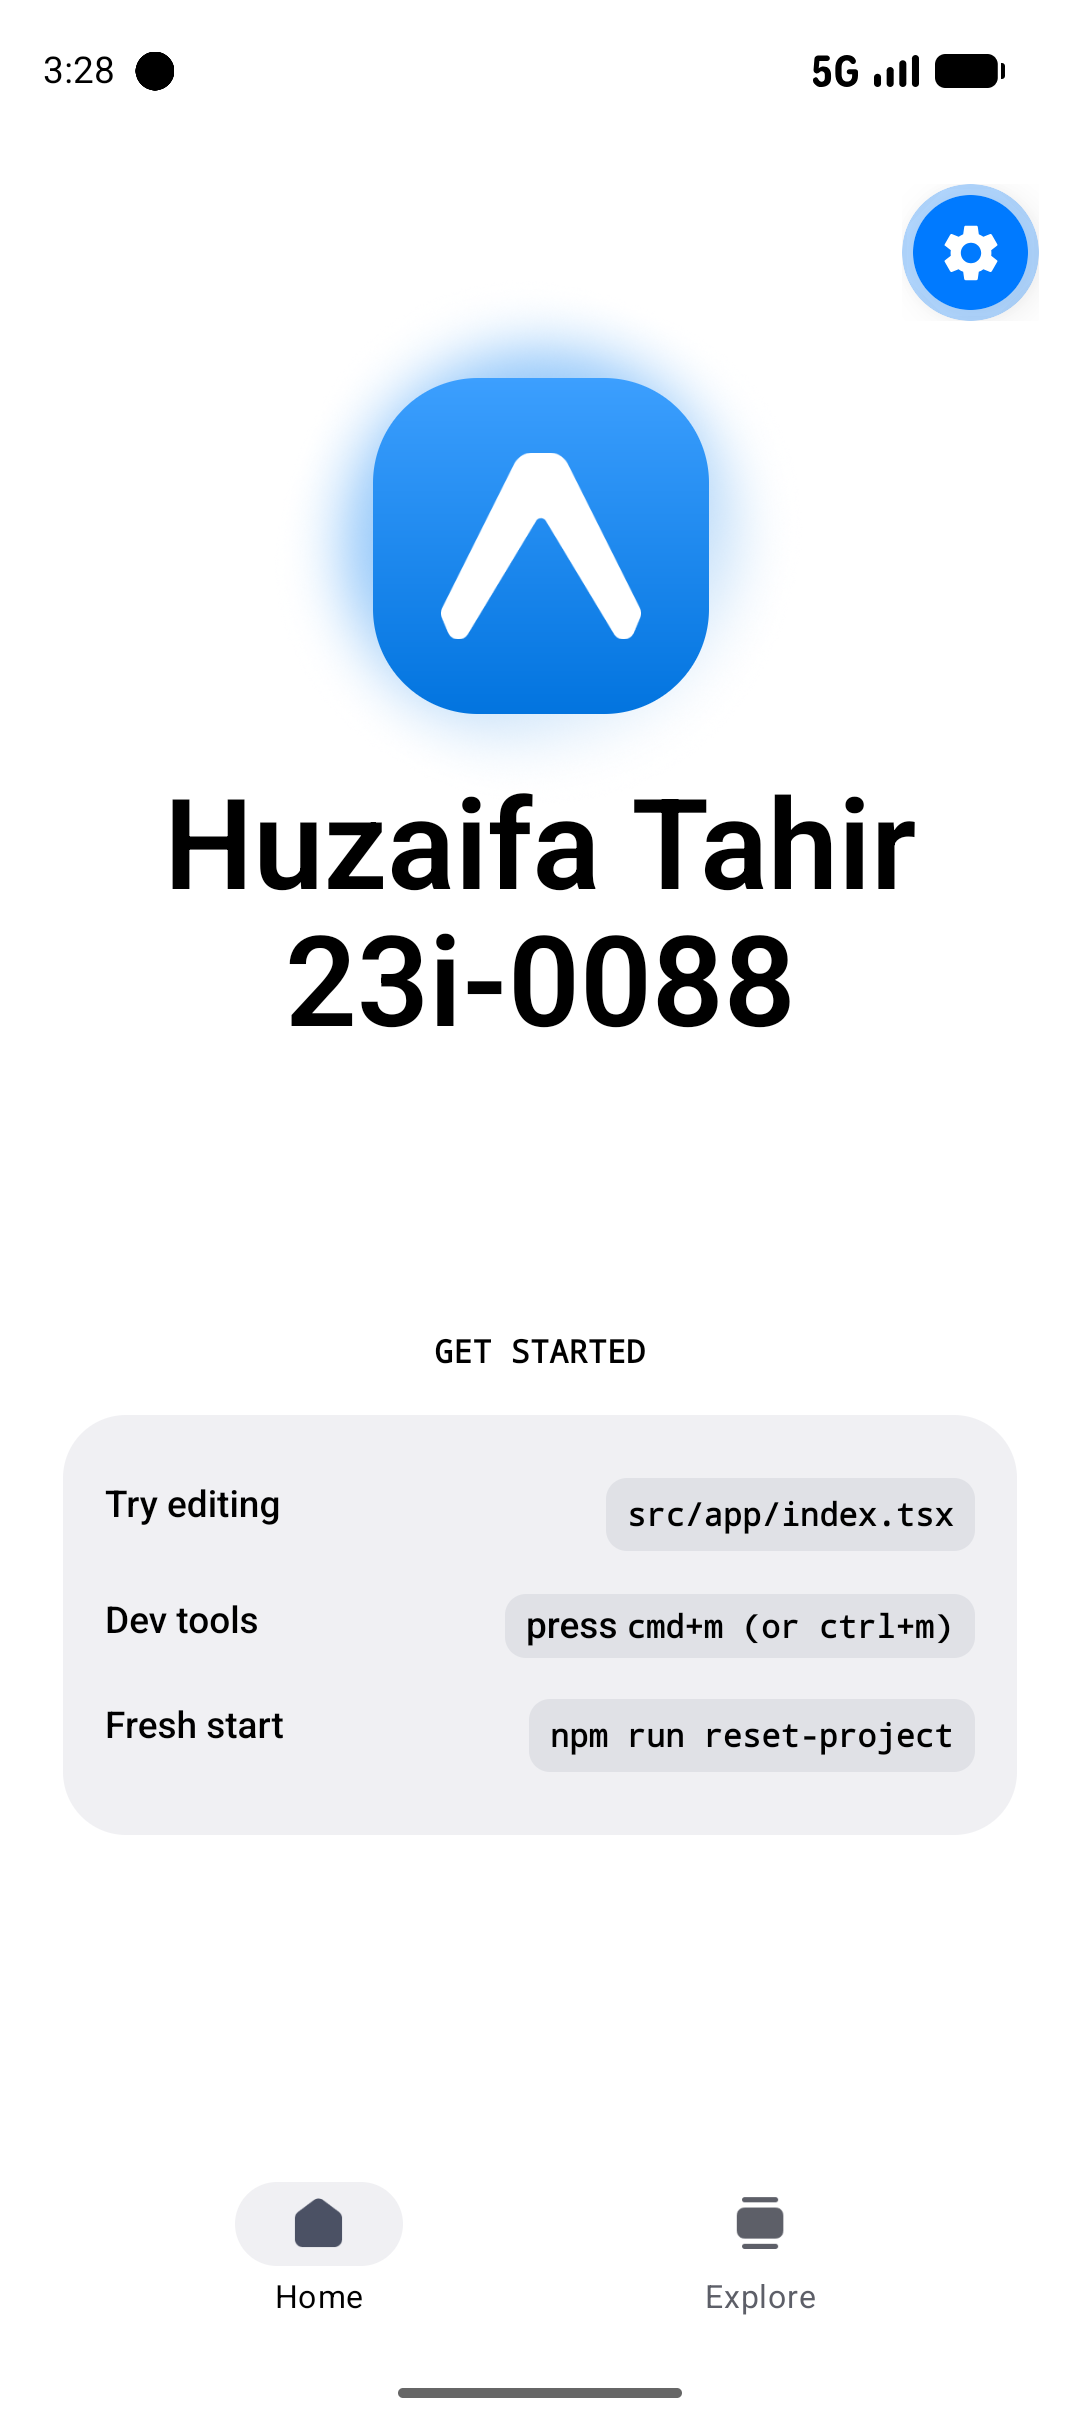
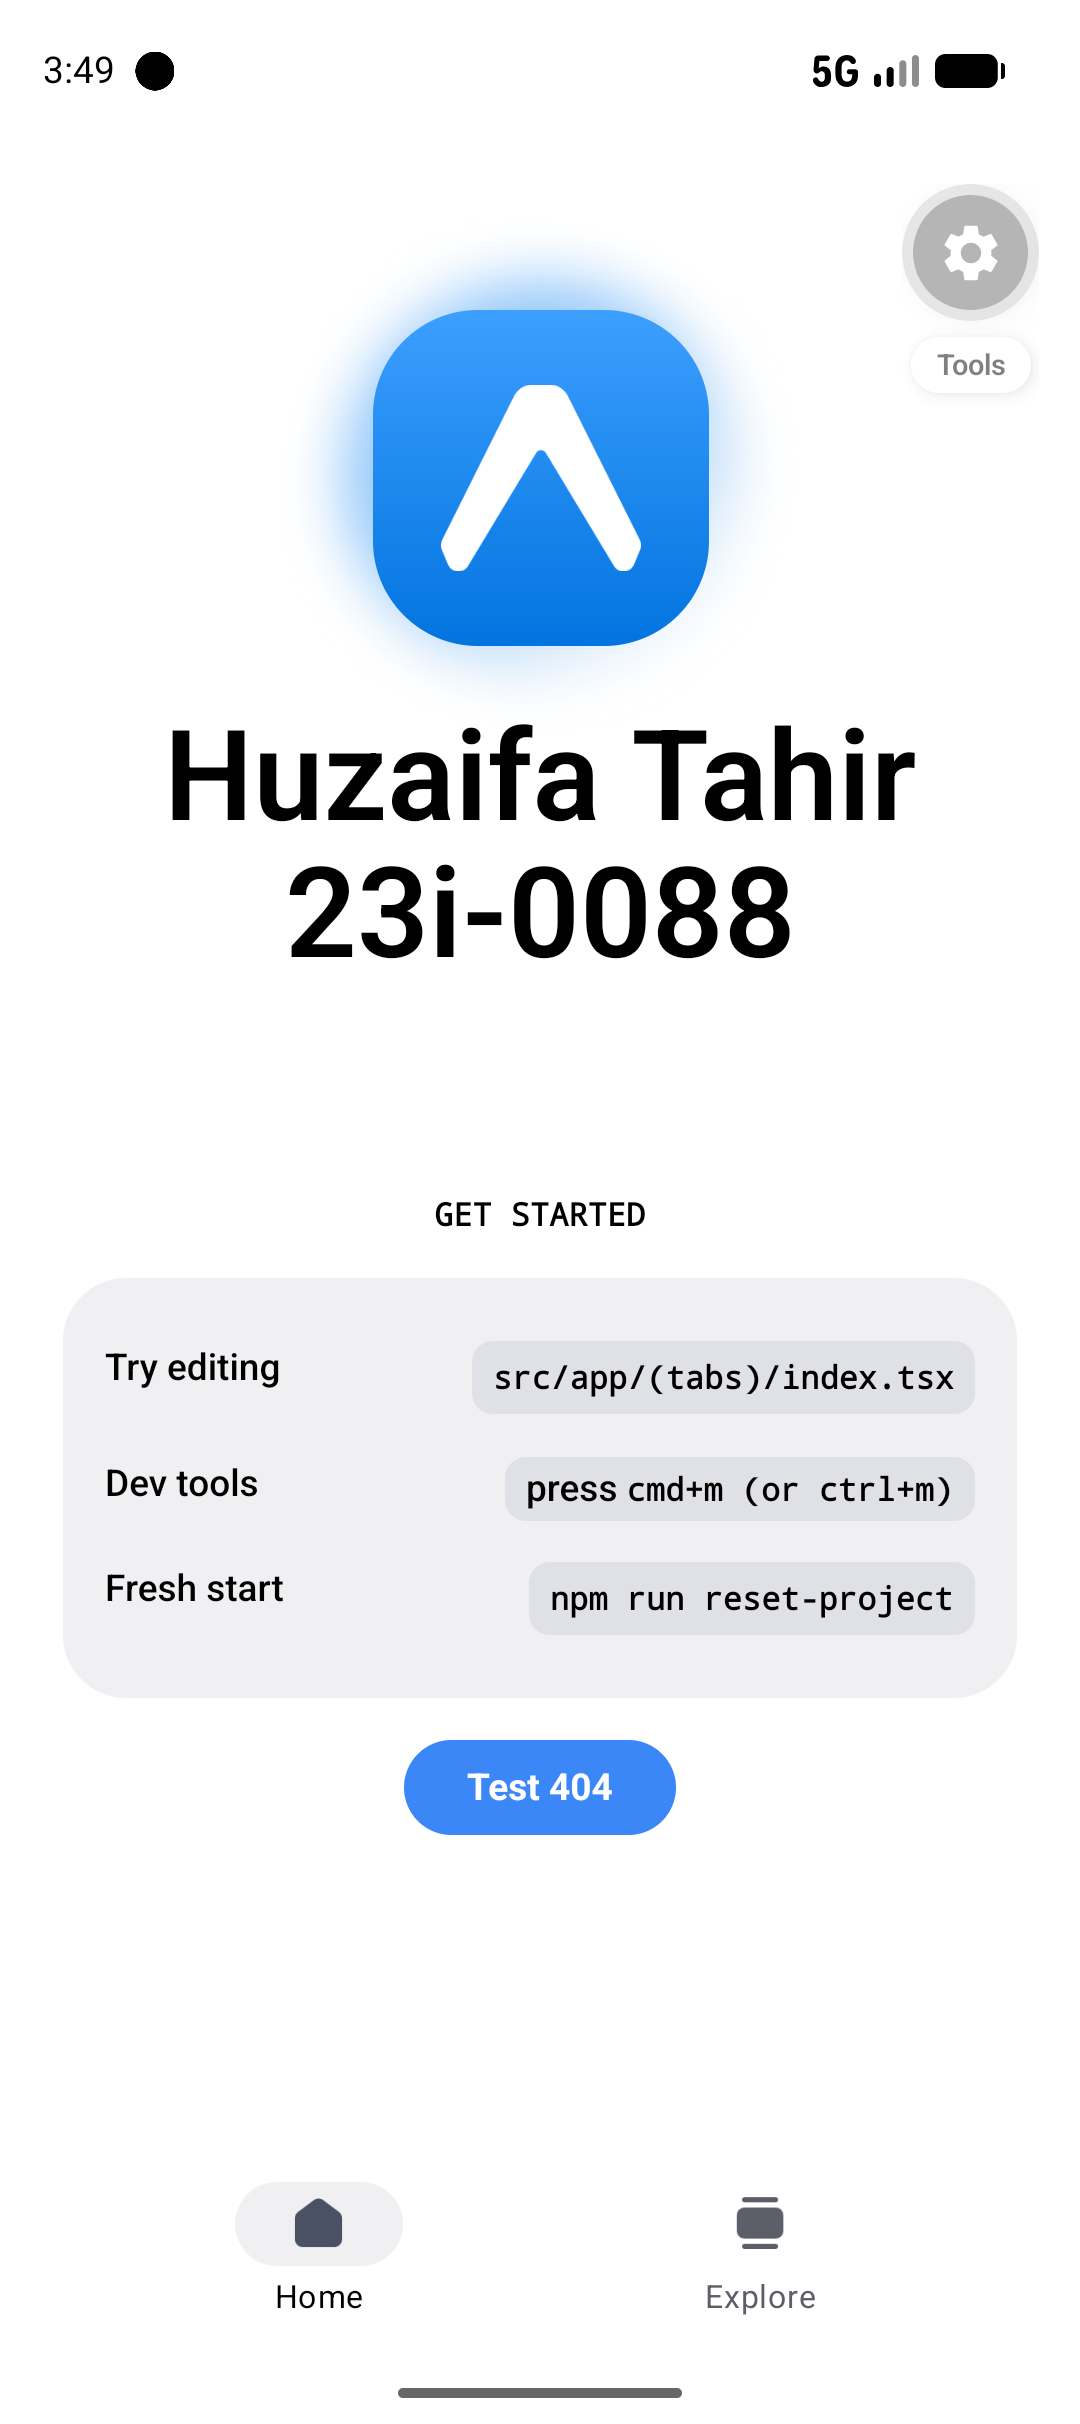
Add Test 404 button and make not-found screen reachable on mobile
NativeTabs only renders tab triggers, so +not-found never showed on
Android/iOS. Move tab screens into a (tabs) group under a root Stack so
unmatched routes push the not-found screen above the tabs.

diff --git a/src/app/(tabs)/index.tsx b/src/app/(tabs)/index.tsx
@@ -1,5 +1,6 @@
 import * as Device from 'expo-device';
-import { Platform, StyleSheet } from 'react-native';
+import { Href, Link } from 'expo-router';
+import { Platform, Pressable, StyleSheet } from 'react-native';
 import { SafeAreaView } from 'react-native-safe-area-context';
 
 import { AnimatedIcon } from '@/components/animated-icon';
@@ -46,7 +47,7 @@ export default function HomeScreen() {
         <ThemedView type="backgroundElement" style={styles.stepContainer}>
           <HintRow
             title="Try editing"
-            hint={<ThemedText type="code">src/app/index.tsx</ThemedText>}
+            hint={<ThemedText type="code">src/app/(tabs)/index.tsx</ThemedText>}
           />
           <HintRow title="Dev tools" hint={getDevMenuHint()} />
           <HintRow
@@ -54,6 +55,14 @@ export default function HomeScreen() {
             hint={<ThemedText type="code">npm run reset-project</ThemedText>}
           />
         </ThemedView>
+
+        <Link href={'/does-not-exist' as Href} asChild>
+          <Pressable style={styles.testButton}>
+            <ThemedText type="smallBold" style={styles.testButtonText}>
+              Test 404
+            </ThemedText>
+          </Pressable>
+        </Link>
 
         {Platform.OS === 'web' && <WebBadge />}
       </SafeAreaView>
@@ -94,5 +103,14 @@ const styles = StyleSheet.create({
     paddingHorizontal: Spacing.three,
     paddingVertical: Spacing.four,
     borderRadius: Spacing.four,
+  },
+  testButton: {
+    backgroundColor: '#3c87f7',
+    paddingHorizontal: Spacing.four,
+    paddingVertical: Spacing.two,
+    borderRadius: Spacing.four,
+  },
+  testButtonText: {
+    color: '#ffffff',
   },
 });

diff --git a/src/app/_layout.tsx b/src/app/_layout.tsx
@@ -1,18 +1,20 @@
-import { DarkTheme, DefaultTheme, ThemeProvider } from 'expo-router';
+import { DarkTheme, DefaultTheme, Stack, ThemeProvider } from 'expo-router';
 import * as SplashScreen from 'expo-splash-screen';
 import { useColorScheme } from 'react-native';
 
 import { AnimatedSplashOverlay } from '@/components/animated-icon';
-import AppTabs from '@/components/app-tabs';
 
 SplashScreen.preventAutoHideAsync();
 
-export default function TabLayout() {
+export default function RootLayout() {
   const colorScheme = useColorScheme();
   return (
     <ThemeProvider value={colorScheme === 'dark' ? DarkTheme : DefaultTheme}>
       <AnimatedSplashOverlay />
-      <AppTabs />
+      <Stack>
+        <Stack.Screen name="(tabs)" options={{ headerShown: false }} />
+        <Stack.Screen name="+not-found" options={{ title: 'Not found' }} />
+      </Stack>
     </ThemeProvider>
   );
 }

diff --git a/src/app/(tabs)/_layout.tsx b/src/app/(tabs)/_layout.tsx
@@ -1,0 +1,5 @@
+import AppTabs from '@/components/app-tabs';
+
+export default function TabLayout() {
+  return <AppTabs />;
+}
